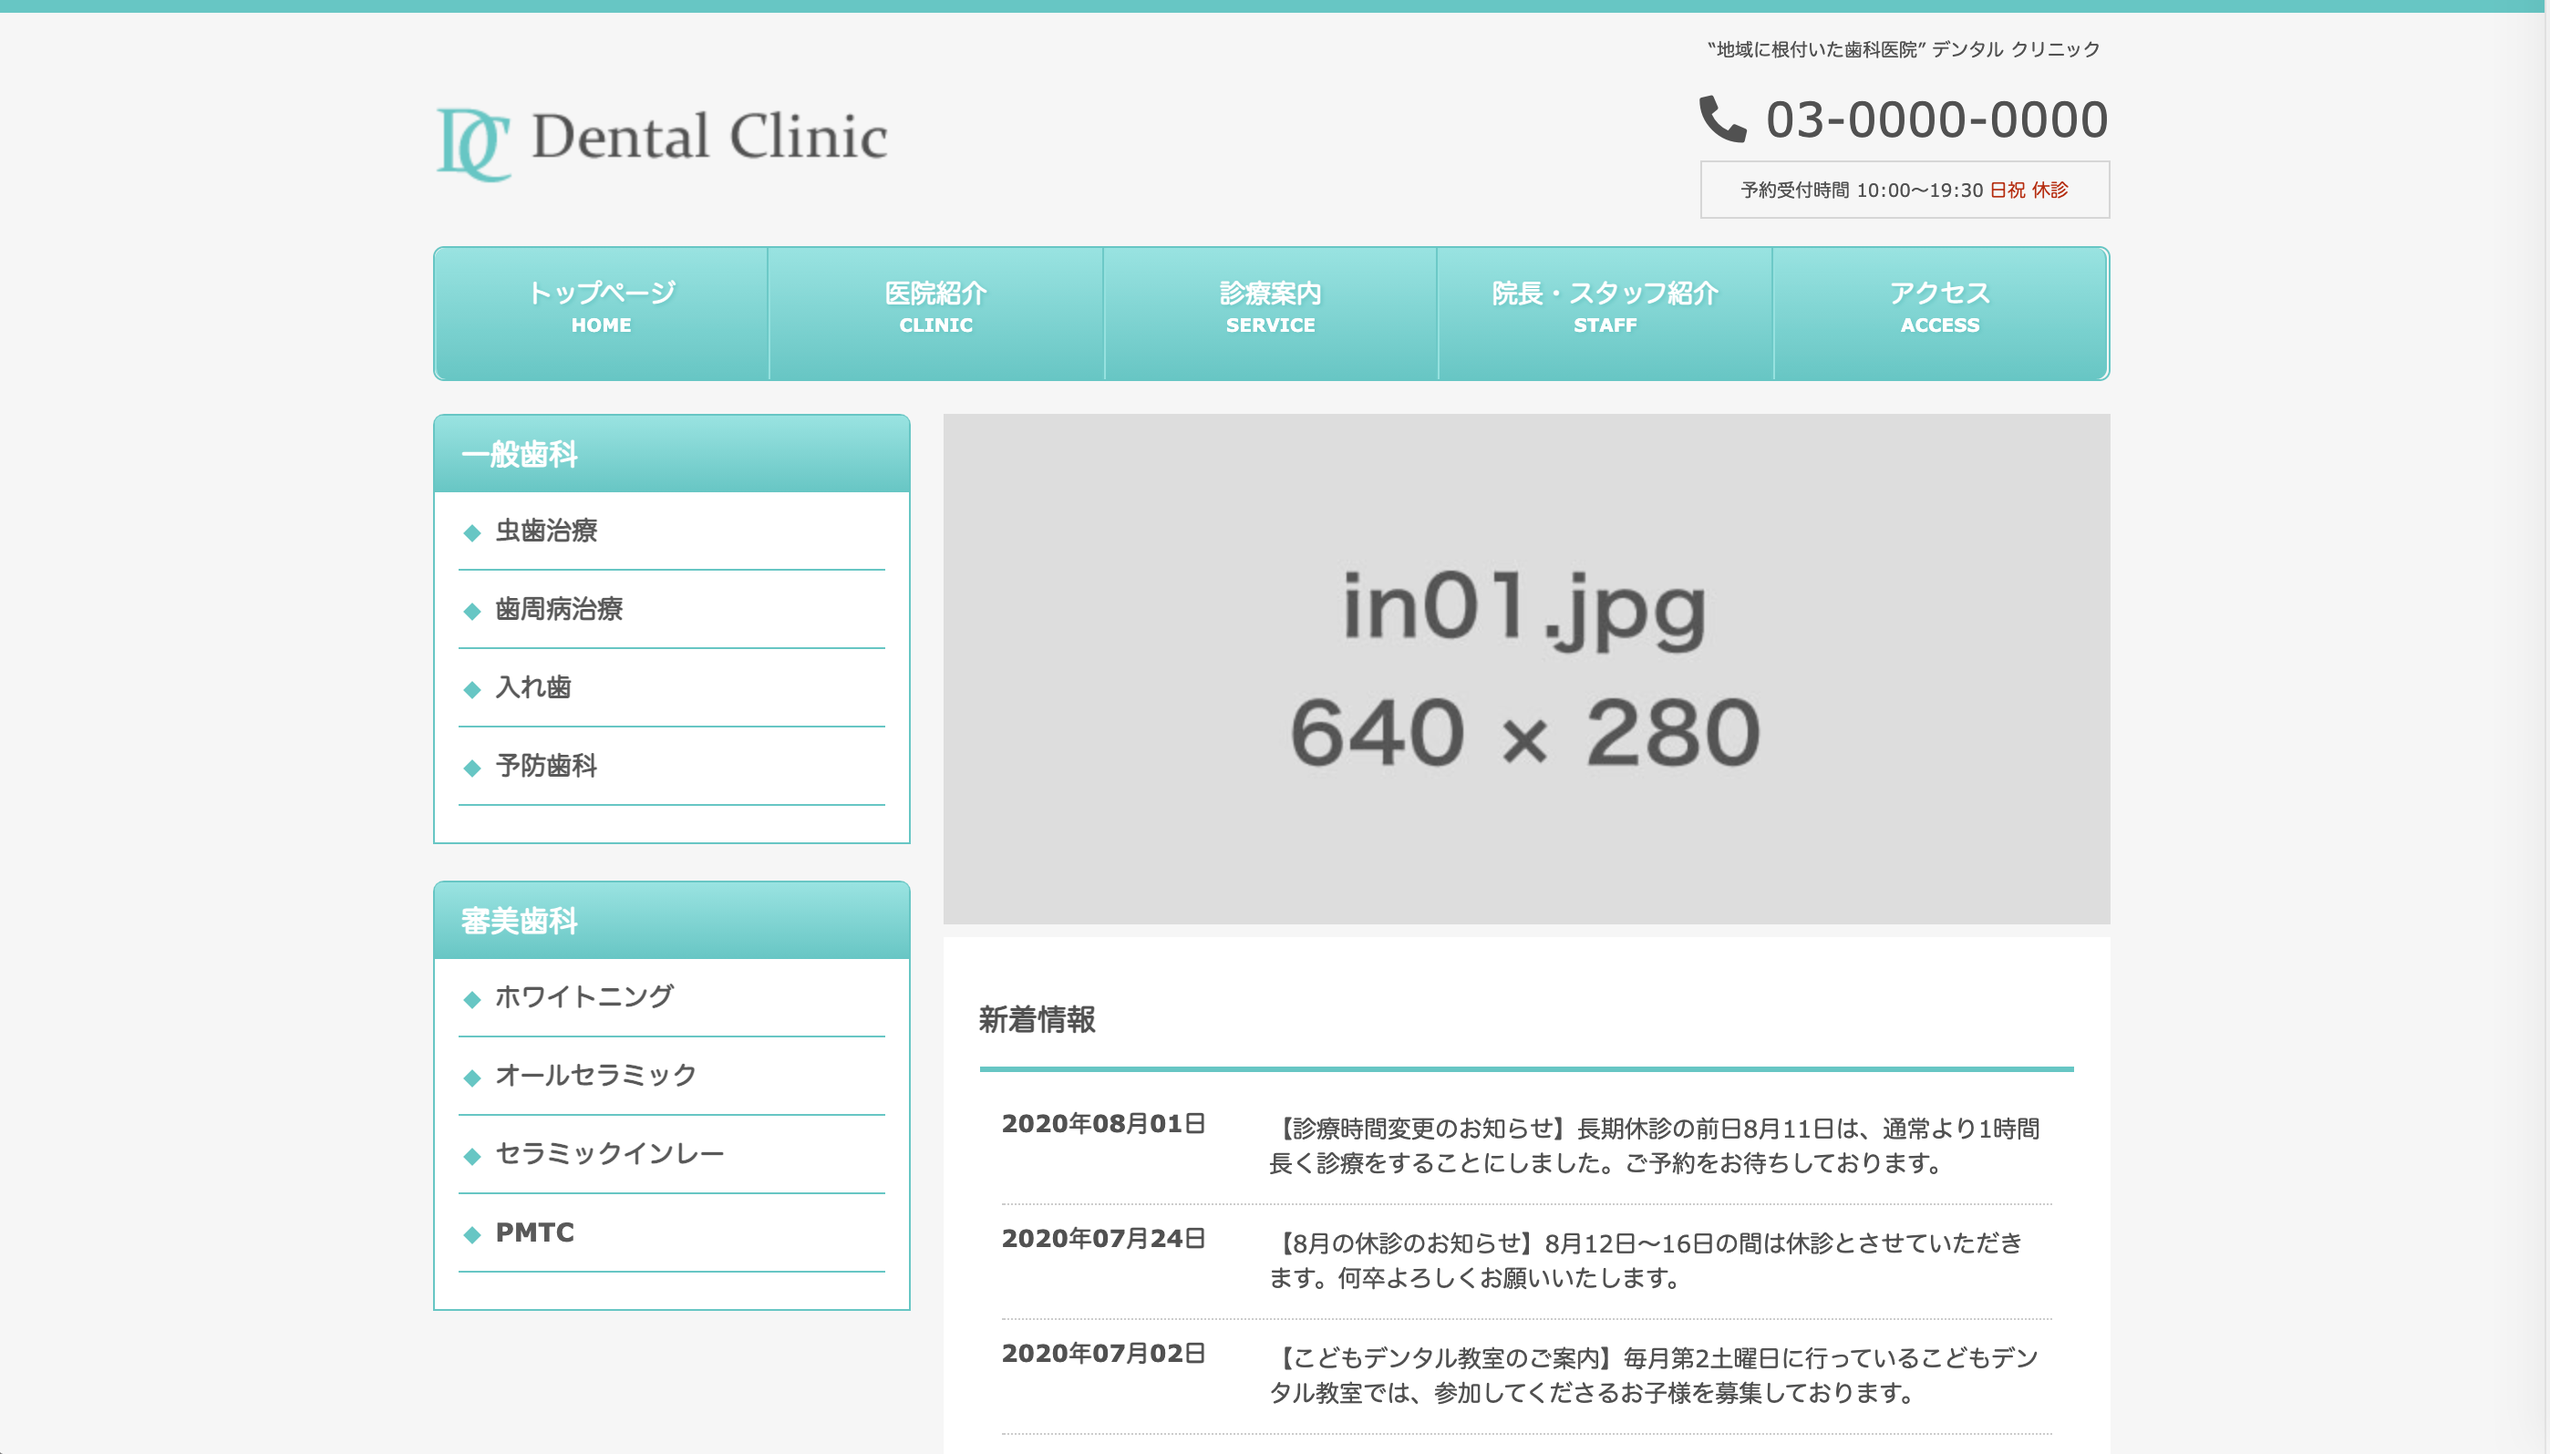
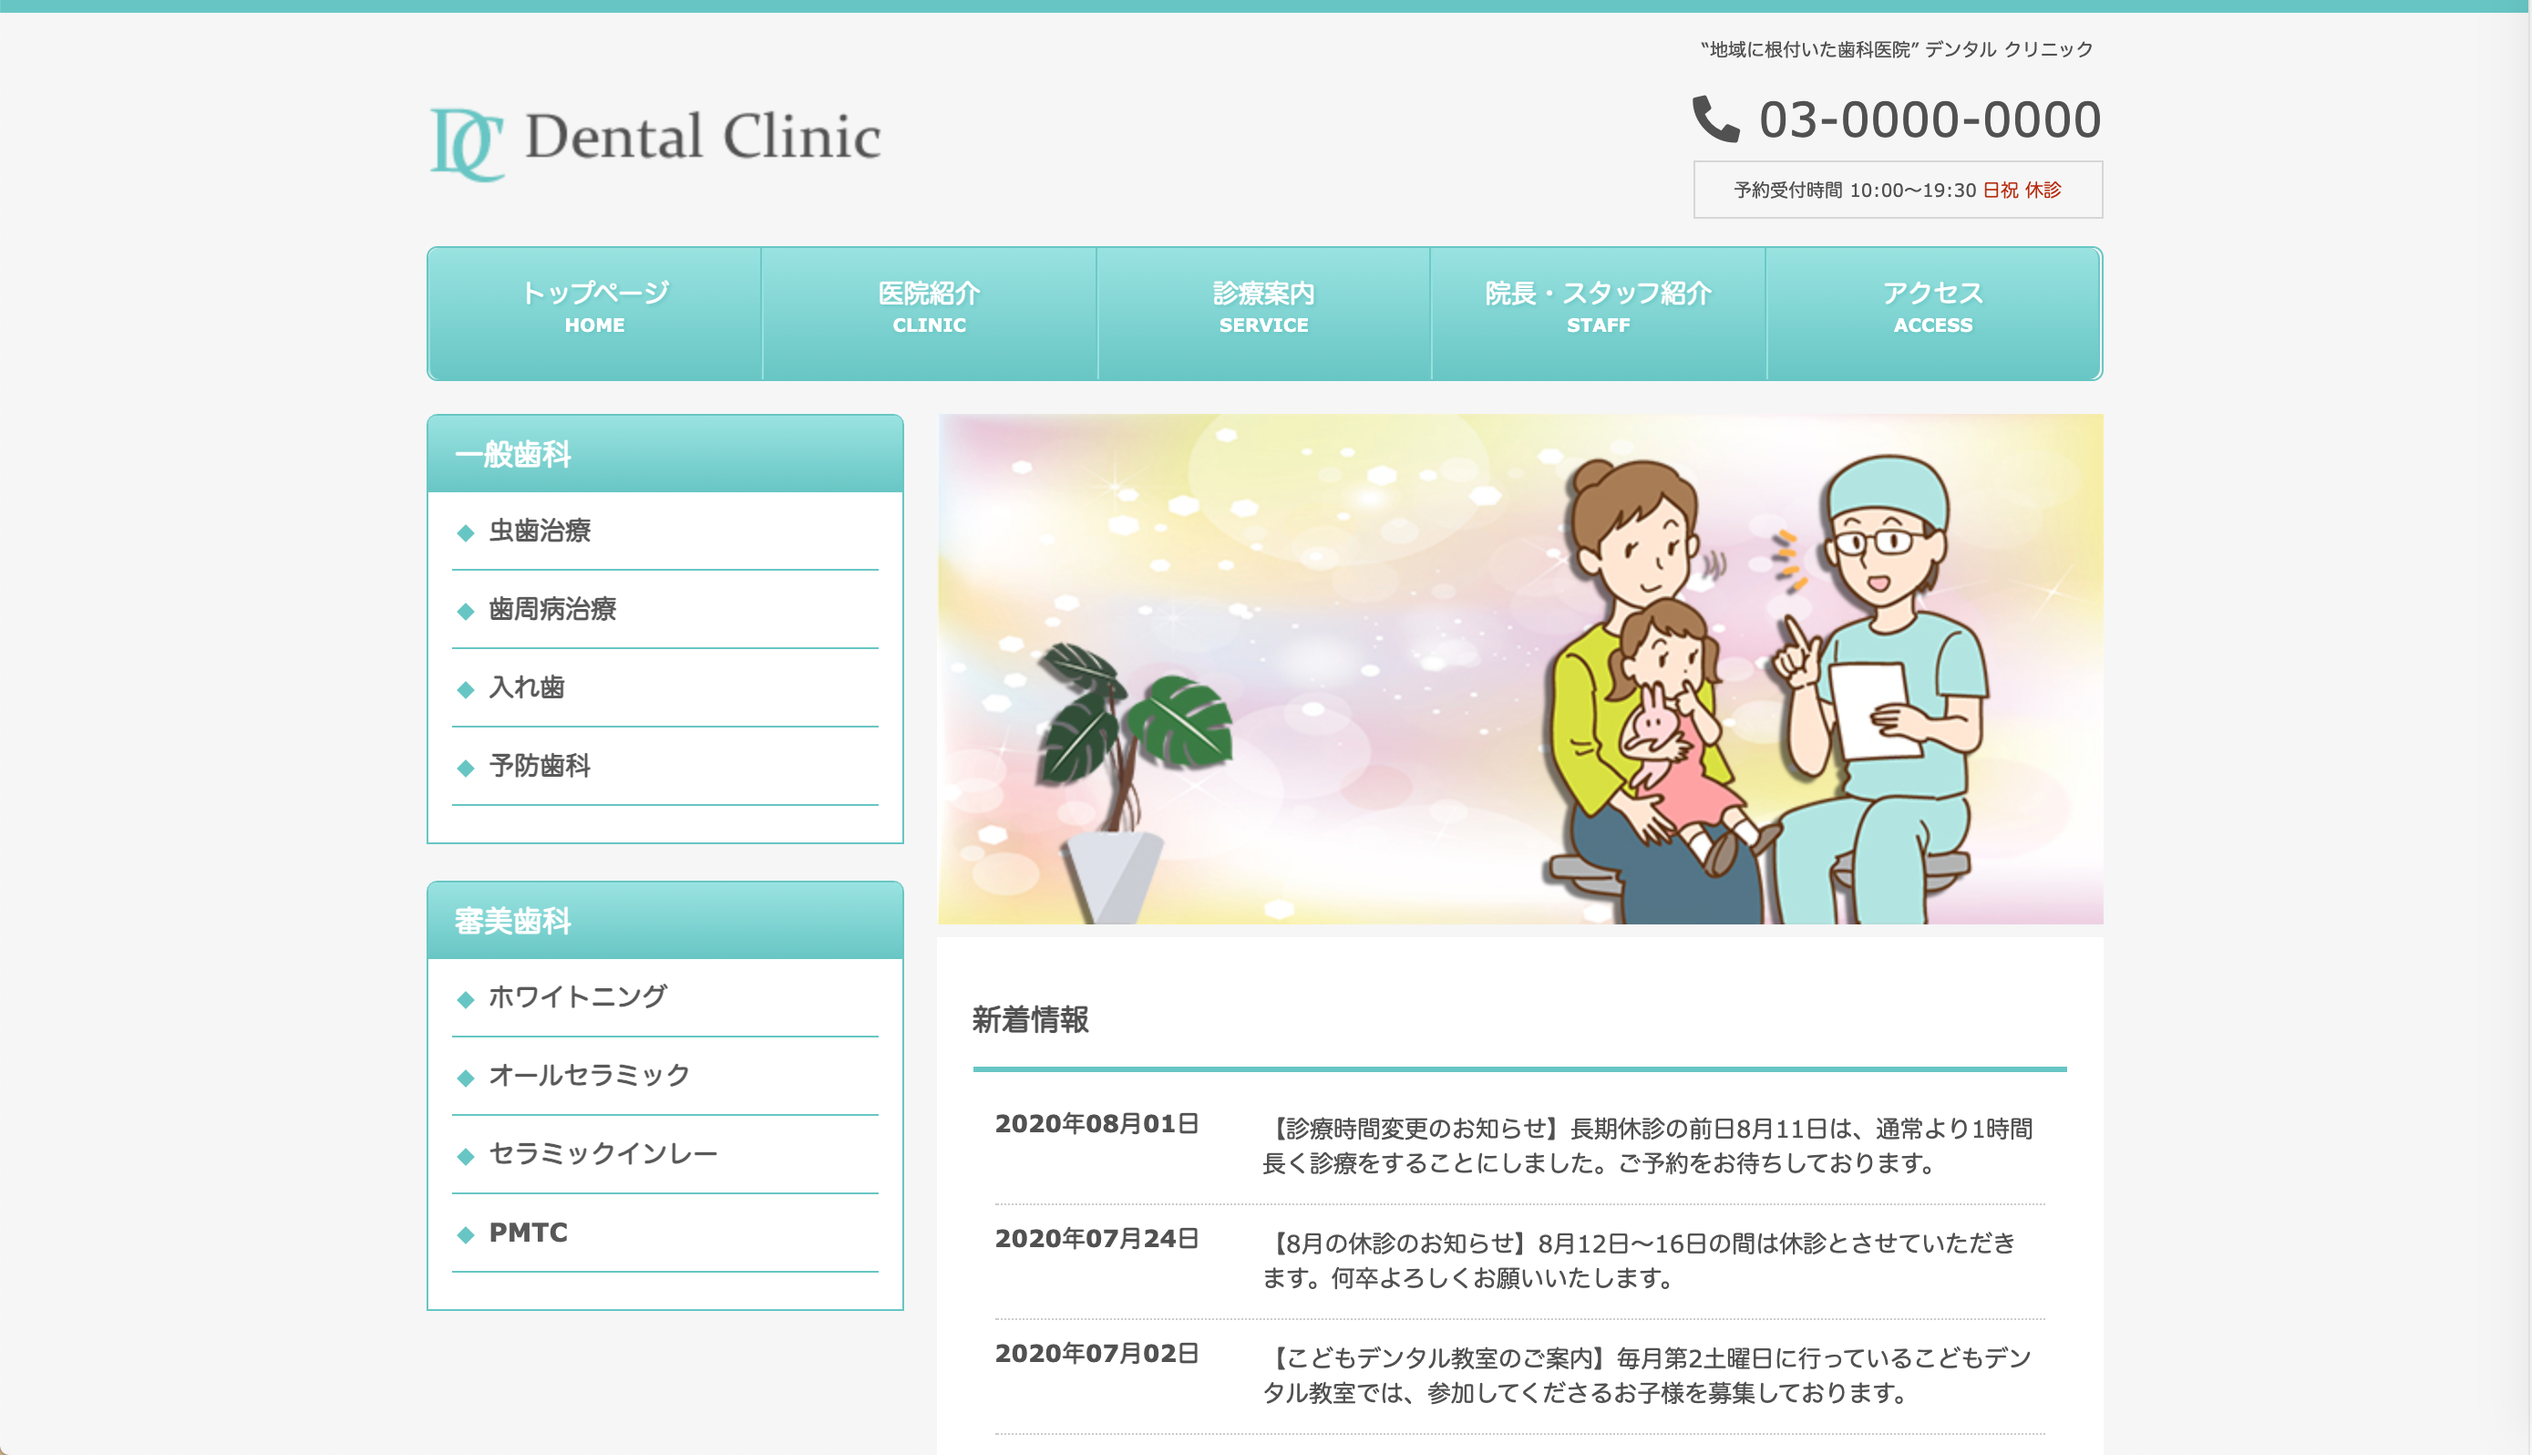
ポートフォリオ修正

diff --git a/index.html b/index.html
@@ -52,7 +52,7 @@
                         </div>
                         <div class="wrapper">
                             <h2>制作期間</h3>
-                            <p>9日間(2021/02/09〜02/17)※作業時間は1日4時間程度</p>
+                            <p>9日間(2021/02/09〜02/17)※作業時間は1日約4時間</p>
                         </div>
                         <div class="wrapper">
                             <h2>制作の目的</h3>
@@ -71,51 +71,6 @@
                     </div>
                 </div>
                 <!--カフェサイトEND -->
-                <!--架空のデンタルクリニック START -->
-                <div class="container">
-                    <div class="image-area">
-                        <div>
-                            <img src="images/dentalclinic.image.png" alt="架空のデンタルクリニックの画像">
-                        </div>
-                    </div>
-                    <div class="content-area">
-                        <h1><span>02 | 架空のデンタルクリニック</span></h1>
-                        <div class="wrapper">
-                            <h2>URL（同じタブで開きます）</h2>
-                            <a href="https://stoic-meninsky-f8b2f8.netlify.app/" target="_self">架空のデンタルクリニックのURL</a>
-                        </div>
-                        <div class="wrapper">
-                            <h2>使用言語等</h3>
-                            <p>HTML, CSS</p>
-                        </div>
-                        <div class="wrapper">
-                            <h2>使用環境</h2>
-                            <p>Visual Studio Code</p>
-                        </div>
-                        <div class="wrapper">
-                            <h2>作業範囲</h2>
-                            <p>コーディング</p>
-                        </div>
-                        <div class="wrapper">
-                            <h2>制作期間</h3>
-                            <p>9日間(2021/03/12〜3/20)※作業時間は1日3時間程度</p>
-                        </div>
-                        <div class="wrapper">
-                            <h2>制作の目的</h3>
-                            <p>見本のサイトをもとに一からコーディングをして可能な限り再現すること。</p>
-                        </div>
-                        <div class="wrapper">
-                            <h2>制作のポイント</h3>
-                            <ul>
-                                <li>レスポンシブWebデザイン(ブレイクポイントは1つ)を取り入れています。</li>
-                                <li>見本のサイト 出典：はにわまんさん(https://haniwaman.com/sample/part3/template_08/)</li>
-                                <li>全体の構造を考えてからコーディングに移りました。</li>
-                                <li>後でコードをみたときに分かりやすいようにコメントを残しながらコーディングしました。</li>
-                            </ul>
-                        </div>
-                    </div>
-                </div>
-                <!--架空のデンタルクリニック END -->
                 <!--コーポレートサイト1 START -->
                 <div class="container">
                     <div class="image-area">
@@ -124,7 +79,7 @@
                         </div>
                     </div>
                     <div class="content-area">
-                        <h1><span>03 | 架空のコーポレートサイト1</span></h1>
+                        <h1><span>02 | 架空のコーポレートサイト1</span></h1>
                         <div class="wrapper">
                             <h2>URL（同じタブで開きます）</h2>
                             <a href="https://kind-murdock-e5483c.netlify.app/" target="_self">コーポレートサイト1のURL</a>
@@ -143,7 +98,7 @@
                         </div>
                         <div class="wrapper">
                             <h2>制作期間</h3>
-                            <p>3日間(2021/03/03〜03/05)※作業時間は1日4時間程度</p>
+                            <p>3日間(2021/03/03〜03/05)※作業時間は1日約4時間</p>
                         </div>
                         <div class="wrapper">
                             <h2>制作の目的</h3>
@@ -169,7 +124,7 @@
                         </div>
                     </div>
                     <div class="content-area">
-                        <h1><span>04 | 架空のコーポレートサイト2</span></h1>
+                        <h1><span>03 | 架空のコーポレートサイト2</span></h1>
                         <div class="wrapper">
                             <h2>URL（同じタブで開きます）</h2>
                             <a href="https://elegant-euclid-190e1a.netlify.app/" target="_self">コーポレートサイト2のURL</a>
@@ -188,7 +143,7 @@
                         </div>
                         <div class="wrapper">
                             <h2>制作期間</h3>
-                            <p>5日間(2021/03/06〜03/10)※作業時間は1日4時間程度</p>
+                            <p>5日間(2021/03/06〜03/10)※作業時間は1日約4時間</p>
                         </div>
                         <div class="wrapper">
                             <h2>制作の目的</h3>
@@ -207,6 +162,56 @@
                     </div>
                 </div>
                 <!--コーポレートサイト2 END -->
+                <!--架空のデンタルクリニック START -->
+                <div class="container">
+                    <div class="image-area">
+                        <div>
+                            <img src="images/dentalclinic.image.png" alt="架空のデンタルクリニックの画像">
+                        </div>
+                    </div>
+                    <div class="content-area">
+                        <h1><span>04 | 架空のデンタルクリニック</span></h1>
+                        <div class="wrapper">
+                            <h2>URL（同じタブで開きます）</h2>
+                            <a href="https://stoic-meninsky-f8b2f8.netlify.app/" target="_self">架空のデンタルクリニックのURL</a>
+                        </div>
+                        <div class="wrapper">
+                            <h2>使用言語等</h3>
+                            <p>HTML, CSS</p>
+                        </div>
+                        <div class="wrapper">
+                            <h2>使用ツール</h3>
+                            <p>Photoshop</p>
+                        </div>
+                        <div class="wrapper">
+                            <h2>使用環境</h2>
+                            <p>Visual Studio Code</p>
+                        </div>
+                        <div class="wrapper">
+                            <h2>作業範囲</h2>
+                            <p>コーディング</p>
+                        </div>
+                        <div class="wrapper">
+                            <h2>制作期間</h3>
+                            <p>コーディング：9日間(2021/03/12〜3/20)※作業時間は1日約3時間</p>
+                            <p>画像加工：2時間(2021/3/24)</p>
+                        </div>
+                        <div class="wrapper">
+                            <h2>制作の目的</h3>
+                            <p>見本のサイトをもとに一からコーディングをして可能な限り再現すること。</p>
+                        </div>
+                        <div class="wrapper">
+                            <h2>制作のポイント</h3>
+                            <ul>
+                                <li>レスポンシブWebデザイン(ブレイクポイントは1つ)を取り入れています。</li>
+                                <li>見本のサイト 出典：はにわまんさん(https://haniwaman.com/sample/part3/template_08/)</li>
+                                <li>全体の構造を考えてからコーディングに移りました。</li>
+                                <li>後でコードをみたときに分かりやすいようにコメントを残しながらコーディングしました。</li>
+                            </ul>
+                        </div>
+                    </div>
+                </div>
+                <!--架空のデンタルクリニック END -->
                 <!--ランディングページ START -->
                 <div class="container">
                     <div class="image-area">
@@ -286,7 +291,7 @@
                         </div>
                         <div class="wrapper">
                             <h2>制作期間</h3>
-                            <p>21日間(2020/12/23〜2021/01/11, 01/20)※作業時間は1日4時間程度</p>
+                            <p>21日間(2020/12/23〜2021/01/11, 01/20)※作業時間は1日約4時間</p>
                         </div>
                         <div class="wrapper">
                             <h2>制作の目的</h3>
@@ -322,7 +327,7 @@
                         </div>
                         <div class="wrapper">
                             <h2>制作期間</h3>
-                            <p>1日間(2021/03/02)</p>
+                            <p>約4時間(2021/03/02)</p>
                         </div>
                     </div>
                 </div>
